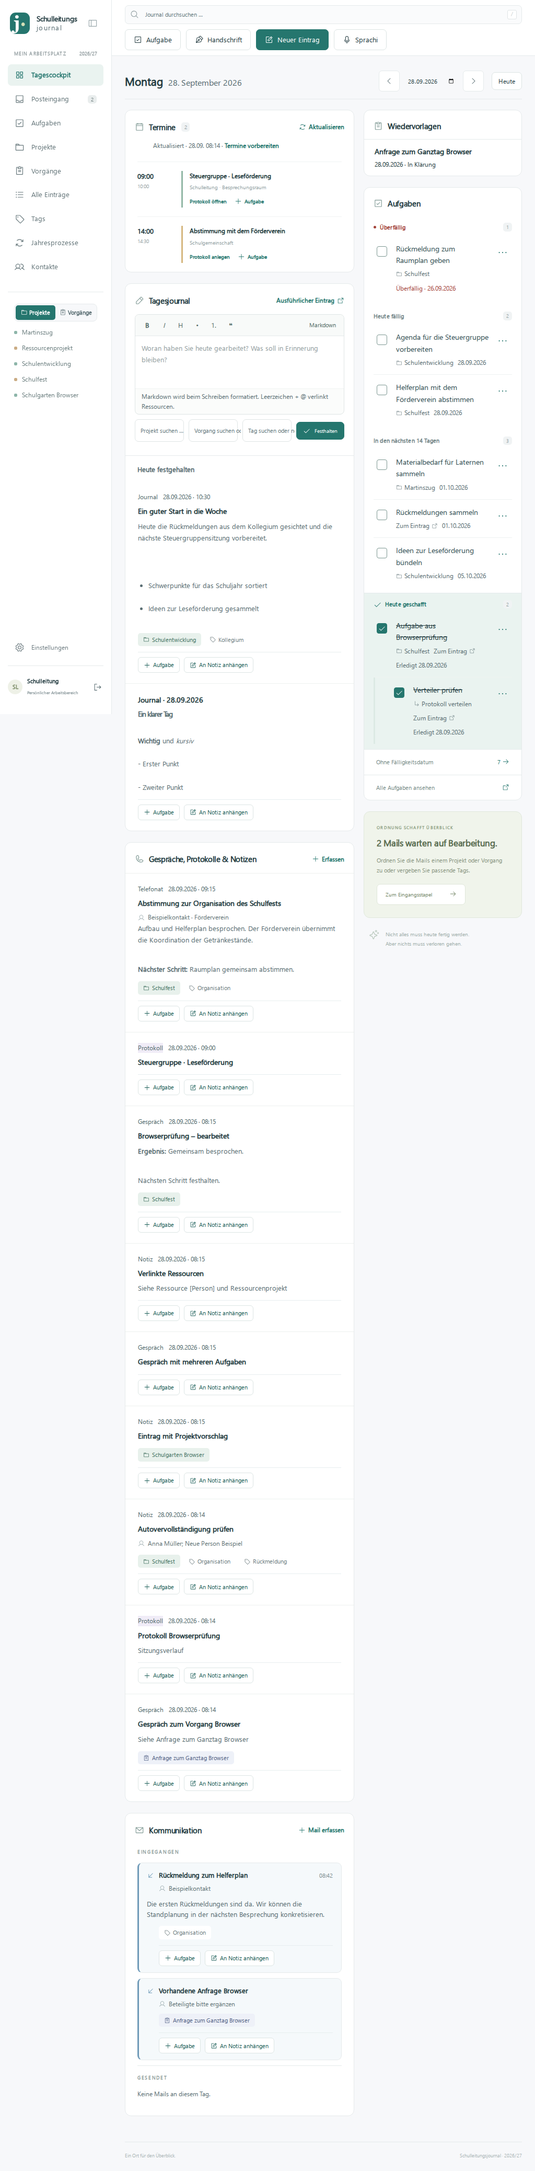
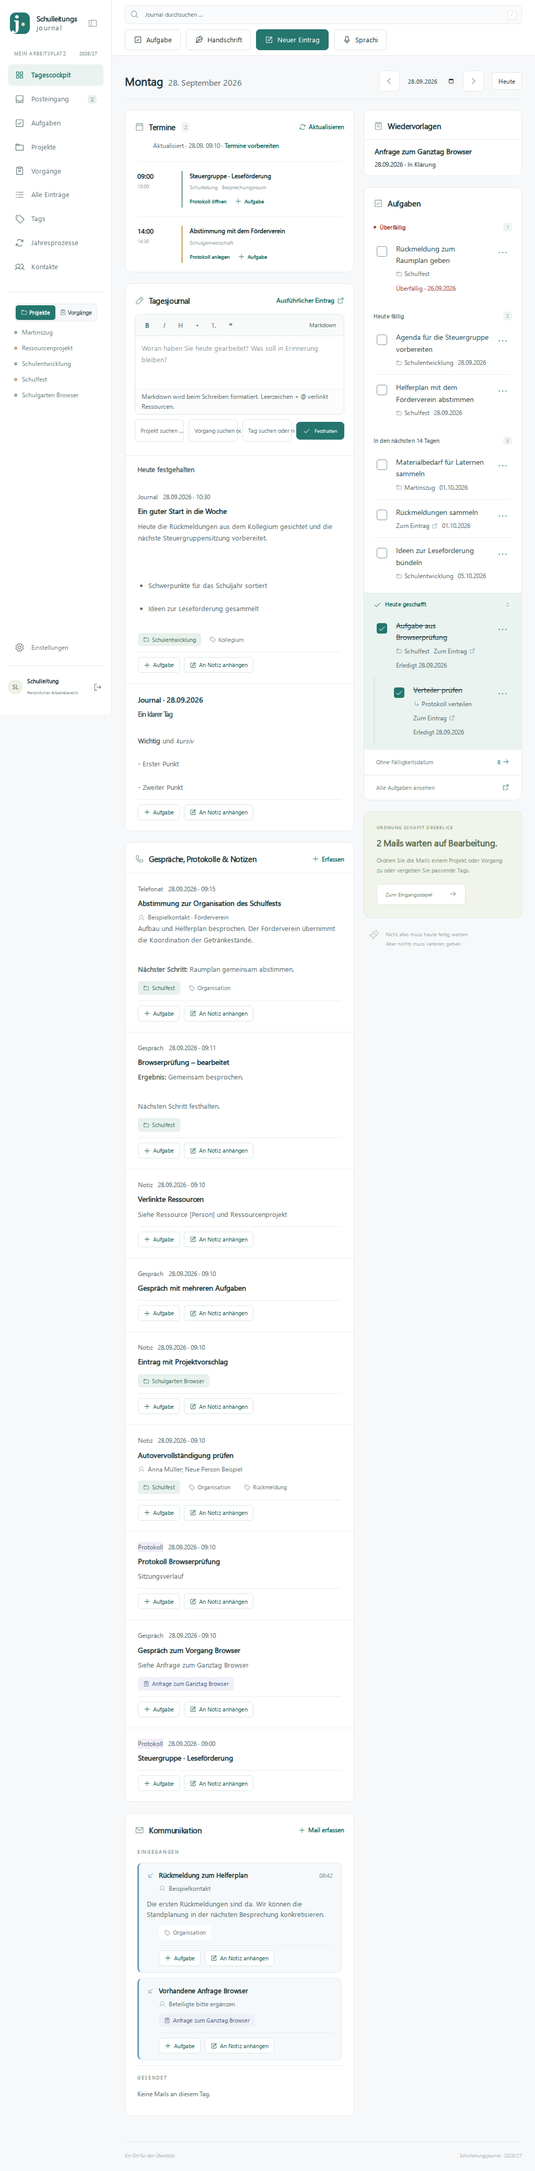
#Tags im Fließtext und „Gleiche Tags“ am Eintrag
Ein #Schulfest im Text wird beim Speichern als Tag übernommen – in
Einträgen samt Tagesordnung und Beschlüssen und im Aufgabentext. Der
Begriff bleibt stehen und ist dort anklickbar.

Dafür braucht eine Markdown-Überschrift jetzt das Leerzeichen: „#Titel“
wurde bisher zur Überschrift und hätte als Tag nie funktioniert. „# Titel“
bleibt unverändert, und die Werkzeugleiste setzt das Leerzeichen ohnehin.
Code-Abschnitte bleiben unberührt, weil der Verweis erst nach ihnen greift.

Dazu auf der Eintragsseite ein Feld mit anderen Einträgen desselben Tags,
nach Tag gruppiert statt vermischt – ein Eintrag trägt oft mehrere Tags,
und beim Lesen verfolgt man einen davon. Je Tag die fünf jüngsten mit
Datum und Art, darunter der Weg zur vollständigen Liste.

Changed region(s): [[0.25, 0.6212, 0.4688, 0.8076], [0.25, 0.4659, 0.4688, 0.5902]]

diff --git a/journal/templates/entry.html b/journal/templates/entry.html
@@ -1,1 +1,1 @@
-{% extends 'base.html' %}{% from 'macros.html' import task_row,empty,documents_section,attachment_row,entry_chips with context %}{% macro entry_tasks(compact=false) %}<section class="panel {{ 'compact-tasks' if compact }}" id="entry-tasks"><div class="panel-heading"><h2>Aufgaben</h2><button class="text-button" data-new-task data-entry-id="{{ entry.id }}" data-case-id="{{ entry.cases[0].id if entry.cases else '' }}" data-project-id="{{ entry.projects[0].id if entry.projects else '' }}">{{ icon('plus') }} Neu</button></div>{% for t in tasks %}{{ task_row(t) }}{% else %}{% if compact %}<p class="small muted compact-empty">Noch keine Aufgaben</p>{% else %}{{ empty('Noch keine Aufgaben') }}{% endif %}{% endfor %}</section>{% endmacro %}{% from 'case_fields.html' import case_field with context %}{% block breadcrumb %}Eintrag{% endblock %}{% block content %}<a class="back-link" data-context-back href="{{ url_for('cockpit',date=entry.date) }}">{{ icon('back') }} Zum Tag · {{ entry.date|de_date }}</a><div class="page-heading"><div><div class="eyebrow">{{ types[entry.type] }}</div><h1>{{ entry.title }}</h1><p class="subtitle">{{ entry.date|de_date }}{% if entry.time %} · {{ entry.time }} Uhr{% endif %}</p></div><div class="actions"><button class="button" data-attach-note data-resource-url="{{ url_for('entry_view',eid=entry.id) }}" data-source-label="{{ entry.title }}">{{ icon('attachment') }} An Notiz anhängen</button><button class="button" data-plan-meeting data-source-entry-id="{{ entry.id }}" data-source-label="{{ entry.title }}" data-text="{{ entry.title }} besprechen">{{ icon('calendar') }} Für Termin vormerken</button><button class="button" data-edit-entry="{{ entry.id }}">{{ icon('journal') }} Eintrag bearbeiten</button></div></div>{% if meeting %}<p class="notice"><a href="{{ url_for('appointment_view',aid=meeting.id) }}">Zum Termin: {{ meeting.title }} · {{ meeting.date|de_date }}</a> · Besprechungspunkte und Unterlagen finden Sie auch im Aufgabenbereich.</p>{% endif %}{% if entry.needs_review %}<div class="notice warning">Die ursprünglichen Mailangaben konnten nicht vollständig erkannt werden. Bitte Datum, Absender und Empfänger prüfen und im Eintrag ergänzen. Das Original ist als Anhang verfügbar.</div>{% endif %}{% if entry.drawings %}<section class="panel padded handwriting-sheets"><div class="panel-heading"><h2>Handschrift &amp; Skizzen</h2><a class="button small" href="{{ url_for('handwriting.new',entry=entry.id) }}">Zeichenblatt hinzufügen</a></div>{% for drawing in entry.drawings %}<article class="handwriting-sheet" id="drawing-{{ drawing.id }}"><a href="{{ url_for('handwriting.edit',did=drawing.id) }}"><h3>{{ drawing.title }}</h3><img loading="lazy" src="{{ url_for('handwriting.preview',did=drawing.id) }}" alt="Handschriftliche Notiz: {{ drawing.title }}"></a><div class="actions"><a class="button small" href="{{ url_for('handwriting.edit',did=drawing.id) }}">Weiterschreiben</a><a class="button small" href="{{ url_for('handwriting.preview',did=drawing.id,download=1) }}">PNG herunterladen</a><form method="post" action="{{ url_for('handwriting.delete',did=drawing.id) }}" data-confirm="Dieses Zeichenblatt endgültig löschen?"><input type="hidden" name="csrf_token" value="{{ csrf_token }}"><input type="hidden" name="revision" value="{{ drawing.revision }}"><button class="text-button danger">{{ icon('delete') }} Blatt löschen</button></form></div></article>{% else %}<p class="small muted">Hier können Sie mit dem Stift mitschreiben oder eine Skizze festhalten.</p>{% endfor %}</section>{% else %}<div class="entry-extra-actions"><a class="text-button" href="{{ url_for('handwriting.new',entry=entry.id) }}">{{ icon('plus') }} Zeichenblatt hinzufügen</a></div>{% endif %}{% if entry.related_entries %}<section class="related-drawings"><h3>Verknüpfte Einträge</h3>{% for related in entry.related_entries %}<article class="related-drawing"><a href="{{ url_for('entry_view',eid=related.id) }}">{% if related.preview_id %}<img loading="lazy" src="{{ url_for('handwriting.preview',did=related.preview_id) }}" alt="Vorschau zu {{ related.title }}">{% endif %}<strong>{{ related.title }}</strong></a><span class="small muted">{{ related.date|de_date }}{% if related.drawing_count %} · {{ related.drawing_count }} Zeichenblätter{% endif %}</span><a class="text-button" href="{{ url_for('entry_view',eid=related.id,_anchor='entry-resources') }}">Zum verknüpften Eintrag</a></article>{% endfor %}</section>{% endif %}{% if entry.drawings or entry.resource_links %}<section class="panel padded entry-resources" id="entry-resources"><h2>Verknüpfte Ressourcen</h2><p class="small muted">Diese Verknüpfungen gelten für den gesamten Eintrag mit allen Zeichenblättern.</p><ul class="drawing-resource-list">{% for link in entry.resource_links %}<li><a href="{{ link.url }}"><strong>{{ link.label }}</strong> <span class="muted small">{{ link.kind }}</span></a><form method="post" action="{{ url_for('entry_unlink',eid=entry.id,lid=link.id) }}" data-async><input type="hidden" name="csrf_token" value="{{ csrf_token }}"><button type="submit" class="text-button" aria-label="Verknüpfung zu {{ link.label }} entfernen">{{ icon('close') }} Entfernen</button></form></li>{% else %}<li class="muted small">Noch keine Ressourcen verknüpft.</li>{% endfor %}</ul><form method="post" action="{{ url_for('entry_link',eid=entry.id) }}" data-async data-resource-picker><input type="hidden" name="csrf_token" value="{{ csrf_token }}"><input type="hidden" name="resource_url"><div class="form-error" role="alert" hidden></div><label for="drawing-resource-{{ entry.id }}">Ressource verknüpfen</label><div class="resource-picker"><input id="drawing-resource-{{ entry.id }}" type="search" autocomplete="off" role="combobox" aria-autocomplete="list" aria-expanded="false" aria-controls="drawing-options-{{ entry.id }}" placeholder="Gespräch, Protokoll, Kontakt oder andere Ressource suchen …" data-resource-query><div class="ac-list" id="drawing-options-{{ entry.id }}" role="listbox" hidden></div></div><p class="small muted" role="status" data-resource-status>Vorhandene Ressource suchen und auswählen.</p><button class="button small" type="submit">{{ icon('link') }} Verknüpfen</button></form></section>{% endif %}{% if entry.drawings %}<div class="handwriting-meta"><section class="panel padded" id="entry-classification"><h2>Zuordnungen</h2><form method="post" action="{{ url_for('entry_classification',eid=entry.id) }}" data-async><input type="hidden" name="csrf_token" value="{{ csrf_token }}"><div class="form-error" role="alert" hidden></div><div class="form-row"><label>Projekte<select name="projects" data-autocomplete="projects" data-label="Projekte" data-include-closed="true" data-project-items='{{ entry.project_items|tojson }}' multiple>{% for p in all_projects %}<option value="{{ p.id }}" data-label="{{ p.name }}" data-detail="{{ p.school_year }}" {{ 'selected' if p.id in entry.projects|map(attribute='id')|list }}>{{ p.name }} · {{ p.school_year }}</option>{% endfor %}</select></label>{{ case_field(selected=entry.cases|map(attribute='id')|list,items=entry.case_items) }}<label>Tags<input name="tags" data-autocomplete="tags" data-label="Tags" value="{{ entry.tags }}" placeholder="Tag suchen oder neu eingeben"></label></div><button class="button primary small" type="submit">{{ icon('check') }} Zuordnung speichern</button></form></section>{{ entry_tasks(true) }}</div>{% endif %}{% set has_text = entry.body|trim or (entry.type=='protocol' and (entry.agenda|trim or entry.decisions|trim)) %}{% set show_details = not entry.drawings or has_text or entry.sender or entry.recipients or entry.participant_items %}<div class="detail-grid" data-single="{{ 'false' if show_details else 'true' }}">{% if show_details %}<section class="panel padded"><dl class="metadata">{% if entry.sender %}<dt>Von</dt><dd>{{ entry.sender }}</dd>{% endif %}{% if entry.recipients %}<dt>An</dt><dd>{{ entry.recipients }}</dd>{% endif %}{% if entry.participant_items %}<dt>Beteiligte</dt><dd class="chips">{% for person in entry.participant_items %}{% if person.kind=='person' %}<a class="pill" href="{{ url_for('person_view',pid=person.id) }}">{{ person.label }}</a>{% else %}<span class="pill">{{ person.label }}</span>{% endif %}{% endfor %}</dd>{% endif %}</dl>{{ entry_chips(entry, files=false) }}{% if entry.type=='protocol' %}{% if entry.agenda %}<section class="protocol-section"><h2>Tagesordnung</h2><div class="markdown" id="entry-agenda">{{ entry.agenda|md }}</div></section>{% endif %}<h2>Protokolltext</h2>{% endif %}<div class="markdown" id="entry-body">{{ entry.body|md }}</div>{% if entry.type=='protocol' and entry.decisions %}<section class="protocol-section"><h2>Beschlüsse</h2><div class="markdown" id="entry-decisions">{{ entry.decisions|md }}</div></section>{% endif %}{% if not entry.drawings or has_text %}<button class="button" data-new-task data-entry-id="{{ entry.id }}" data-case-id="{{ entry.cases[0].id if entry.cases else '' }}" data-project-id="{{ entry.projects[0].id if entry.projects else '' }}" data-selection>{{ icon('plus') }} Aufgabe aus Textauswahl</button>{% endif %}</section>{% endif %}<div>{% if not entry.drawings %}{{ entry_tasks() }}{% endif %}{% if entry.attachments %}<section class="panel"><div class="panel-heading"><h2>Anhänge <span class="number">{{ entry.attachments|length }}</span></h2></div>{% for a in entry.attachments %}{{ attachment_row(a) }}{% else %}{{ empty('Keine Anhänge') }}{% endfor %}</section>{% endif %}{{ documents_section('entry',entry.id) }}<form method="post" action="{{ url_for('entry_delete',eid=entry.id) }}" data-confirm="Diesen Eintrag samt Anhängen endgültig löschen? Zugehörige Aufgaben bleiben erhalten."><input type="hidden" name="csrf_token" value="{{ csrf_token }}"><button class="text-button danger">{{ icon('delete') }} Eintrag löschen</button></form></div></div>{% endblock %}
+{% extends 'base.html' %}{% from 'macros.html' import task_row,empty,documents_section,attachment_row,entry_chips with context %}{% macro entry_tasks(compact=false) %}<section class="panel {{ 'compact-tasks' if compact }}" id="entry-tasks"><div class="panel-heading"><h2>Aufgaben</h2><button class="text-button" data-new-task data-entry-id="{{ entry.id }}" data-case-id="{{ entry.cases[0].id if entry.cases else '' }}" data-project-id="{{ entry.projects[0].id if entry.projects else '' }}">{{ icon('plus') }} Neu</button></div>{% for t in tasks %}{{ task_row(t) }}{% else %}{% if compact %}<p class="small muted compact-empty">Noch keine Aufgaben</p>{% else %}{{ empty('Noch keine Aufgaben') }}{% endif %}{% endfor %}</section>{% endmacro %}{% from 'case_fields.html' import case_field with context %}{% block breadcrumb %}Eintrag{% endblock %}{% block content %}<a class="back-link" data-context-back href="{{ url_for('cockpit',date=entry.date) }}">{{ icon('back') }} Zum Tag · {{ entry.date|de_date }}</a><div class="page-heading"><div><div class="eyebrow">{{ types[entry.type] }}</div><h1>{{ entry.title }}</h1><p class="subtitle">{{ entry.date|de_date }}{% if entry.time %} · {{ entry.time }} Uhr{% endif %}</p></div><div class="actions"><button class="button" data-attach-note data-resource-url="{{ url_for('entry_view',eid=entry.id) }}" data-source-label="{{ entry.title }}">{{ icon('attachment') }} An Notiz anhängen</button><button class="button" data-plan-meeting data-source-entry-id="{{ entry.id }}" data-source-label="{{ entry.title }}" data-text="{{ entry.title }} besprechen">{{ icon('calendar') }} Für Termin vormerken</button><button class="button" data-edit-entry="{{ entry.id }}">{{ icon('journal') }} Eintrag bearbeiten</button></div></div>{% if meeting %}<p class="notice"><a href="{{ url_for('appointment_view',aid=meeting.id) }}">Zum Termin: {{ meeting.title }} · {{ meeting.date|de_date }}</a> · Besprechungspunkte und Unterlagen finden Sie auch im Aufgabenbereich.</p>{% endif %}{% if entry.needs_review %}<div class="notice warning">Die ursprünglichen Mailangaben konnten nicht vollständig erkannt werden. Bitte Datum, Absender und Empfänger prüfen und im Eintrag ergänzen. Das Original ist als Anhang verfügbar.</div>{% endif %}{% if entry.drawings %}<section class="panel padded handwriting-sheets"><div class="panel-heading"><h2>Handschrift &amp; Skizzen</h2><a class="button small" href="{{ url_for('handwriting.new',entry=entry.id) }}">Zeichenblatt hinzufügen</a></div>{% for drawing in entry.drawings %}<article class="handwriting-sheet" id="drawing-{{ drawing.id }}"><a href="{{ url_for('handwriting.edit',did=drawing.id) }}"><h3>{{ drawing.title }}</h3><img loading="lazy" src="{{ url_for('handwriting.preview',did=drawing.id) }}" alt="Handschriftliche Notiz: {{ drawing.title }}"></a><div class="actions"><a class="button small" href="{{ url_for('handwriting.edit',did=drawing.id) }}">Weiterschreiben</a><a class="button small" href="{{ url_for('handwriting.preview',did=drawing.id,download=1) }}">PNG herunterladen</a><form method="post" action="{{ url_for('handwriting.delete',did=drawing.id) }}" data-confirm="Dieses Zeichenblatt endgültig löschen?"><input type="hidden" name="csrf_token" value="{{ csrf_token }}"><input type="hidden" name="revision" value="{{ drawing.revision }}"><button class="text-button danger">{{ icon('delete') }} Blatt löschen</button></form></div></article>{% else %}<p class="small muted">Hier können Sie mit dem Stift mitschreiben oder eine Skizze festhalten.</p>{% endfor %}</section>{% else %}<div class="entry-extra-actions"><a class="text-button" href="{{ url_for('handwriting.new',entry=entry.id) }}">{{ icon('plus') }} Zeichenblatt hinzufügen</a></div>{% endif %}{% if entry.related_entries %}<section class="related-drawings"><h3>Verknüpfte Einträge</h3>{% for related in entry.related_entries %}<article class="related-drawing"><a href="{{ url_for('entry_view',eid=related.id) }}">{% if related.preview_id %}<img loading="lazy" src="{{ url_for('handwriting.preview',did=related.preview_id) }}" alt="Vorschau zu {{ related.title }}">{% endif %}<strong>{{ related.title }}</strong></a><span class="small muted">{{ related.date|de_date }}{% if related.drawing_count %} · {{ related.drawing_count }} Zeichenblätter{% endif %}</span><a class="text-button" href="{{ url_for('entry_view',eid=related.id,_anchor='entry-resources') }}">Zum verknüpften Eintrag</a></article>{% endfor %}</section>{% endif %}{% if entry.drawings or entry.resource_links %}<section class="panel padded entry-resources" id="entry-resources"><h2>Verknüpfte Ressourcen</h2><p class="small muted">Diese Verknüpfungen gelten für den gesamten Eintrag mit allen Zeichenblättern.</p><ul class="drawing-resource-list">{% for link in entry.resource_links %}<li><a href="{{ link.url }}"><strong>{{ link.label }}</strong> <span class="muted small">{{ link.kind }}</span></a><form method="post" action="{{ url_for('entry_unlink',eid=entry.id,lid=link.id) }}" data-async><input type="hidden" name="csrf_token" value="{{ csrf_token }}"><button type="submit" class="text-button" aria-label="Verknüpfung zu {{ link.label }} entfernen">{{ icon('close') }} Entfernen</button></form></li>{% else %}<li class="muted small">Noch keine Ressourcen verknüpft.</li>{% endfor %}</ul><form method="post" action="{{ url_for('entry_link',eid=entry.id) }}" data-async data-resource-picker><input type="hidden" name="csrf_token" value="{{ csrf_token }}"><input type="hidden" name="resource_url"><div class="form-error" role="alert" hidden></div><label for="drawing-resource-{{ entry.id }}">Ressource verknüpfen</label><div class="resource-picker"><input id="drawing-resource-{{ entry.id }}" type="search" autocomplete="off" role="combobox" aria-autocomplete="list" aria-expanded="false" aria-controls="drawing-options-{{ entry.id }}" placeholder="Gespräch, Protokoll, Kontakt oder andere Ressource suchen …" data-resource-query><div class="ac-list" id="drawing-options-{{ entry.id }}" role="listbox" hidden></div></div><p class="small muted" role="status" data-resource-status>Vorhandene Ressource suchen und auswählen.</p><button class="button small" type="submit">{{ icon('link') }} Verknüpfen</button></form></section>{% endif %}{% if entry.drawings %}<div class="handwriting-meta"><section class="panel padded" id="entry-classification"><h2>Zuordnungen</h2><form method="post" action="{{ url_for('entry_classification',eid=entry.id) }}" data-async><input type="hidden" name="csrf_token" value="{{ csrf_token }}"><div class="form-error" role="alert" hidden></div><div class="form-row"><label>Projekte<select name="projects" data-autocomplete="projects" data-label="Projekte" data-include-closed="true" data-project-items='{{ entry.project_items|tojson }}' multiple>{% for p in all_projects %}<option value="{{ p.id }}" data-label="{{ p.name }}" data-detail="{{ p.school_year }}" {{ 'selected' if p.id in entry.projects|map(attribute='id')|list }}>{{ p.name }} · {{ p.school_year }}</option>{% endfor %}</select></label>{{ case_field(selected=entry.cases|map(attribute='id')|list,items=entry.case_items) }}<label>Tags<input name="tags" data-autocomplete="tags" data-label="Tags" value="{{ entry.tags }}" placeholder="Tag suchen oder neu eingeben"></label></div><button class="button primary small" type="submit">{{ icon('check') }} Zuordnung speichern</button></form></section>{{ entry_tasks(true) }}</div>{% endif %}{% set has_text = entry.body|trim or (entry.type=='protocol' and (entry.agenda|trim or entry.decisions|trim)) %}{% set show_details = not entry.drawings or has_text or entry.sender or entry.recipients or entry.participant_items %}<div class="detail-grid" data-single="{{ 'false' if show_details else 'true' }}">{% if show_details %}<section class="panel padded"><dl class="metadata">{% if entry.sender %}<dt>Von</dt><dd>{{ entry.sender }}</dd>{% endif %}{% if entry.recipients %}<dt>An</dt><dd>{{ entry.recipients }}</dd>{% endif %}{% if entry.participant_items %}<dt>Beteiligte</dt><dd class="chips">{% for person in entry.participant_items %}{% if person.kind=='person' %}<a class="pill" href="{{ url_for('person_view',pid=person.id) }}">{{ person.label }}</a>{% else %}<span class="pill">{{ person.label }}</span>{% endif %}{% endfor %}</dd>{% endif %}</dl>{{ entry_chips(entry, files=false) }}{% if entry.type=='protocol' %}{% if entry.agenda %}<section class="protocol-section"><h2>Tagesordnung</h2><div class="markdown" id="entry-agenda">{{ entry.agenda|md }}</div></section>{% endif %}<h2>Protokolltext</h2>{% endif %}<div class="markdown" id="entry-body">{{ entry.body|md }}</div>{% if entry.type=='protocol' and entry.decisions %}<section class="protocol-section"><h2>Beschlüsse</h2><div class="markdown" id="entry-decisions">{{ entry.decisions|md }}</div></section>{% endif %}{% if not entry.drawings or has_text %}<button class="button" data-new-task data-entry-id="{{ entry.id }}" data-case-id="{{ entry.cases[0].id if entry.cases else '' }}" data-project-id="{{ entry.projects[0].id if entry.projects else '' }}" data-selection>{{ icon('plus') }} Aufgabe aus Textauswahl</button>{% endif %}</section>{% endif %}<div>{% if not entry.drawings %}{{ entry_tasks() }}{% endif %}{% if entry.attachments %}<section class="panel"><div class="panel-heading"><h2>Anhänge <span class="number">{{ entry.attachments|length }}</span></h2></div>{% for a in entry.attachments %}{{ attachment_row(a) }}{% else %}{{ empty('Keine Anhänge') }}{% endfor %}</section>{% endif %}{{ documents_section('entry',entry.id) }}{% if tag_groups %}<section class="panel tag-relations"><div class="panel-heading"><h2>{{ icon('tags','section-icon') }} Gleiche Tags</h2></div>{% for gruppe in tag_groups %}<div class="tag-relation"><div class="tag-relation-head"><a class="pill pill-tag" href="{{ url_for('entry_list',tag=gruppe.name) }}">{{ icon('tags') }}{{ gruppe.name }}</a><span class="muted small">{{ gruppe.gesamt }} {{ 'Eintrag' if gruppe.gesamt==1 else 'Einträge' }}</span></div>{% for e in gruppe.eintraege %}<a class="tag-relation-item" href="{{ url_for('entry_view',eid=e.id) }}"><span class="tag-relation-date">{{ e.date|de_date }}</span><span class="tag-relation-title">{{ e.title }}</span><span class="type-label type-{{ e.type }}">{{ types[e.type] }}</span></a>{% endfor %}{% if gruppe.gesamt > gruppe.eintraege|length %}<a class="text-button tag-relation-more" href="{{ url_for('entry_list',tag=gruppe.name) }}">Alle {{ gruppe.gesamt }} ansehen {{ icon('forward') }}</a>{% endif %}</div>{% endfor %}</section>{% endif %}<form method="post" action="{{ url_for('entry_delete',eid=entry.id) }}" data-confirm="Diesen Eintrag samt Anhängen endgültig löschen? Zugehörige Aufgaben bleiben erhalten."><input type="hidden" name="csrf_token" value="{{ csrf_token }}"><button class="text-button danger">{{ icon('delete') }} Eintrag löschen</button></form></div></div>{% endblock %}

diff --git a/journal/static/style.css b/journal/static/style.css
@@ -537,3 +537,18 @@ body.sidebar-collapsed .profile form{margin:0}
 .device-row{display:flex;align-items:center;justify-content:space-between;gap:15px;padding:12px 0;border-top:1px solid var(--line)}
 .device-row>div{display:flex;flex-direction:column;min-width:0;overflow-wrap:anywhere}
 #devices{margin-bottom:22px}
+
+/* „Gleiche Tags“ am Eintrag: je Tag eine kurze Liste statt einer Mischung */
+.tag-relation{padding:0 23px 14px;border-top:1px solid #f0f3f3}
+.tag-relation:first-of-type{border-top:0}
+.tag-relation-head{display:flex;align-items:center;justify-content:space-between;gap:10px;padding:13px 0 7px}
+.tag-relation-head .muted{white-space:nowrap;font-size:10px}
+.tag-relation-item{display:flex;align-items:baseline;gap:9px;padding:6px 0;font-size:12px;min-width:0}
+.tag-relation-item:hover .tag-relation-title{color:var(--teal)}
+.tag-relation-date{flex:none;width:62px;font-size:10px;color:#9dabad}
+.tag-relation-title{flex:1;min-width:0;overflow:hidden;text-overflow:ellipsis;white-space:nowrap}
+.tag-relation-item .type-label{flex:none;font-size:9px}
+.tag-relation-more{margin-top:6px}
+.inline-tag{color:var(--teal);font-weight:550}
+.inline-tag:hover{text-decoration:underline}
+@media(max-width:700px){.tag-relation{padding:0 18px 12px}.tag-relation-item .type-label{display:none}}

diff --git a/tests/test_inline_tags.py b/tests/test_inline_tags.py
@@ -1,0 +1,91 @@
+"""#Tags im Fließtext und das Feld „Gleiche Tags“ am Eintrag."""
+from journal.db import get_db, one
+from journal.domain import save_entry, save_task
+from journal.tags import inline_tags, merge_tags, verwandte
+
+
+def test_erkennung_im_text():
+    assert inline_tags('#Schulfest steht an') == ['Schulfest']
+    assert inline_tags('Wir planen #Schulfest und #Kollegium.') == ['Schulfest', 'Kollegium']
+    assert inline_tags('## Beschlüsse', '# Titel') == []
+    assert inline_tags('foo#bar', 'https://x.de/s#anker', '#1 Platz') == []
+    assert inline_tags('#Über-Uns und #a_b') == ['Über-Uns', 'a_b']
+
+
+def test_feld_und_text_werden_zusammengefuehrt():
+    assert merge_tags('Organisation', 'Dazu #Schulfest planen') == 'Organisation, Schulfest'
+    # Das Feld gewinnt die Schreibweise, das Doppel entfällt.
+    assert merge_tags('Schulfest', 'Zum #schulfest') == 'Schulfest'
+    assert merge_tags('', 'Nur #Kollegium') == 'Kollegium'
+
+
+def test_eintrag_uebernimmt_tags_aus_dem_text(app):
+    with app.app_context():
+        eid = save_entry(dict(title='Notiz', date='2026-09-28', tags='Organisation',
+                              body='Beim #Schulfest wird es eng.'))
+        assert one('SELECT tags FROM entries WHERE id=?', (eid,))['tags'] == 'Organisation, Schulfest'
+
+
+def test_protokollfelder_zaehlen_mit(app):
+    with app.app_context():
+        eid = save_entry(dict(title='Konferenz', date='2026-09-28', type='protocol',
+                              agenda='TOP 1 #Schulfest', decisions='Beschlossen: #Kollegium informieren'))
+        assert one('SELECT tags FROM entries WHERE id=?', (eid,))['tags'] == 'Schulfest, Kollegium'
+
+
+def test_aufgabe_uebernimmt_tags_aus_dem_text(app):
+    with app.app_context():
+        tid = save_task(dict(text='Raumplan für #Schulfest abstimmen'))
+        assert one('SELECT tags FROM tasks WHERE id=?', (tid,))['tags'] == 'Schulfest'
+
+
+def test_darstellung(app):
+    with app.test_request_context('/'):
+        md = app.jinja_env.filters['md']
+        assert '<a class="inline-tag" href="/entries?tag=Schulfest">#Schulfest</a>' in str(md('#Schulfest steht an'))
+        assert str(md('# Echte Überschrift')) == '<h1>Echte Überschrift</h1>'
+        assert str(md('## Beschlüsse')) == '<h2>Beschlüsse</h2>'
+        assert '<code>#Schulfest</code>' in str(md('Code: `#Schulfest`'))
+
+
+def anlegen(titel, datum, tags, typ='note'):
+    return get_db().execute('INSERT INTO entries(date,type,title,tags,body) VALUES(?,?,?,?,?)',
+                            (datum, typ, titel, tags, '')).lastrowid
+
+
+def test_gleiche_tags_gruppiert_je_tag(app):
+    with app.app_context():
+        eid = anlegen('Abstimmung', '2026-09-25', 'Schulfest, Organisation')
+        for n in range(6):
+            anlegen(f'Fest {n}', f'2026-09-{10+n:02d}', 'Schulfest')
+        anlegen('Dienstbesprechung', '2026-09-22', 'Organisation')
+        anlegen('Ohne Bezug', '2026-09-24', 'Kollegium')
+        get_db().commit()
+        gruppen = verwandte(one('SELECT * FROM entries WHERE id=?', (eid,)))
+        assert [g['name'] for g in gruppen] == ['Schulfest', 'Organisation']
+        fest = gruppen[0]
+        assert fest['gesamt'] == 6 and len(fest['eintraege']) == 5, 'höchstens fünf je Tag'
+        assert [e['title'] for e in fest['eintraege']] == [f'Fest {n}' for n in (5, 4, 3, 2, 1)], 'neueste zuerst'
+        assert all(e['id'] != eid for g in gruppen for e in g['eintraege']), 'ohne den Eintrag selbst'
+
+
+def test_feld_erscheint_nur_bei_treffern(app, client):
+    with app.app_context():
+        allein = anlegen('Einsam', '2026-09-25', 'Einmalig')
+        ohne = anlegen('Ohne Tags', '2026-09-25', '')
+        get_db().commit()
+    for eid in (allein, ohne):
+        seite = client.get(f'/entry/{eid}', base_url='https://localhost').get_data(as_text=True)
+        assert 'Gleiche Tags' not in seite
+
+
+def test_feld_verlinkt_die_vollstaendige_liste(app, client):
+    with app.app_context():
+        eid = anlegen('Abstimmung', '2026-09-25', 'Schulfest')
+        for n in range(6):
+            anlegen(f'Fest {n}', f'2026-09-{10+n:02d}', 'Schulfest')
+        get_db().commit()
+    seite = client.get(f'/entry/{eid}', base_url='https://localhost').get_data(as_text=True)
+    assert 'Gleiche Tags' in seite
+    assert 'Alle 6 ansehen' in seite
+    assert 'tag=Schulfest' in seite

diff --git a/journal/tags.py b/journal/tags.py
@@ -30,3 +30,100 @@ def overview(query=''):
         item['count']=item['entries']+item['tasks']
     search=tag_key(query).lstrip('#')
     return sorted((item for key,item in found.items() if search in key),key=lambda item:tag_key(item['name']))
+
+
+# --- Tags im Fließtext: #Schulfest ------------------------------------------
+
+import re
+
+# Nach dem Doppelkreuz muss ein Buchstabe stehen – so werden weder „#1“ noch
+# Überschriften („## Beschlüsse“) noch Anker in Adressen zu Tags.
+INLINE = re.compile(r'(?<![\w#])#([^\W\d_][\w-]{0,63})')
+
+
+def inline_tags(*texte):
+    """Alle im Fließtext geschriebenen Tags, in der Reihenfolge ihres Auftretens."""
+    gefunden = []
+    for text in texte:
+        gefunden.extend(INLINE.findall(text or ''))
+    return gefunden
+
+
+def merge_tags(feld, *texte):
+    """Tags aus dem Eingabefeld und aus dem Text zusammenführen.
+
+    Das Feld hat Vorrang: Steht ein Tag dort bereits, bleibt dessen
+    Schreibweise erhalten und die aus dem Text wird verworfen.
+    """
+    from .domain import clean_tags
+    ergebnis = []
+    bekannt = set()
+    for label in clean_tags(feld or '').split(', ') + inline_tags(*texte):
+        label = label.strip()
+        key = tag_key(label)
+        if not key or key in bekannt:
+            continue
+        bekannt.add(key)
+        ergebnis.append(label)
+    return ', '.join(ergebnis)
+
+
+def markdown_extension():
+    """Macht #Tags im Fließtext anklickbar – und verhindert, dass sie am
+    Zeilenanfang als Markdown-Überschrift gelesen werden."""
+    import xml.etree.ElementTree as ET
+    from markdown.extensions import Extension
+    from markdown.inlinepatterns import InlineProcessor
+
+    def ziel(name):
+        try:
+            from flask import url_for
+            return url_for('entry_list', tag=name)
+        except Exception:
+            from urllib.parse import quote
+            return '/entries?tag=' + quote(name)
+
+    class TagVerweis(InlineProcessor):
+        def handleMatch(self, treffer, daten):
+            element = ET.Element('a')
+            element.text = '#' + treffer.group(1)
+            element.set('href', ziel(treffer.group(1)))
+            element.set('class', 'inline-tag')
+            return element, treffer.start(0), treffer.end(0)
+
+    class Tags(Extension):
+        def extendMarkdown(self, md):
+            # Eine Überschrift braucht jetzt das Leerzeichen („# Titel“), wie es
+            # auch die Werkzeugleiste einfügt. Ohne diese Änderung würde
+            # „#Schulfest“ am Zeilenanfang zur Überschrift statt zum Tag.
+            md.parser.blockprocessors['hashheader'].RE = re.compile(
+                r'(?:^|\n)(?P<level>#{1,6})[ \t]+(?P<header>(?:\\.|[^\\])*?)#*(?:\n|$)')
+            # Nach den Code-Abschnitten (190), damit `#Tag` in Code Code bleibt.
+            md.inlinePatterns.register(TagVerweis(INLINE.pattern, md), 'journal-tag', 185)
+
+    return Tags()
+
+
+def verwandte(entry, je_tag=5):
+    """Andere Einträge je Tag dieses Eintrags – neueste zuerst.
+
+    Gruppiert nach Tag statt zu einer flachen Liste vermischt: Ein Eintrag
+    trägt oft mehrere Tags, und beim Lesen verfolgt man einen davon.
+    """
+    from .db import one, rows
+    gruppen = []
+    gesehen = set()
+    for label in (entry['tags'] or '').split(','):
+        label = label.strip()
+        key = tag_key(label)
+        if not key or key in gesehen:
+            continue
+        gesehen.add(key)
+        treffer = rows('SELECT id,title,date,type FROM entries WHERE id<>? AND has_tag(tags,?) '
+                       'ORDER BY date DESC,time DESC,id DESC LIMIT ?', (entry['id'], label, je_tag))
+        if not treffer:
+            continue
+        gesamt = one('SELECT count(*) n FROM entries WHERE id<>? AND has_tag(tags,?)',
+                     (entry['id'], label))['n']
+        gruppen.append(dict(name=label, eintraege=treffer, gesamt=gesamt))
+    return gruppen

diff --git a/journal/domain.py b/journal/domain.py
@@ -61,6 +61,7 @@ def entries(sql='SELECT * FROM entries ORDER BY date DESC,time DESC,id DESC', pa
 
 
 def save_entry(data, project_ids=(), person_ids=(), entry_id=None):
+    from .tags import merge_tags
     title = data.get('title', '').strip()
     if not title:
         raise ValueError('Ein Titel fehlt noch.')
@@ -74,7 +75,7 @@ def save_entry(data, project_ids=(), person_ids=(), entry_id=None):
             datetime.strptime(time, '%H:%M')
         except ValueError:
             raise ValueError('Bitte eine gültige Uhrzeit eingeben.')
-    values = (entry_date,time,kind,title,data.get('body',''),data.get('participants',''),data.get('sender',''),data.get('recipients',''),clean_tags(data.get('tags','')),int(bool(data.get('needs_review',False))))
+    values = (entry_date,time,kind,title,data.get('body',''),data.get('participants',''),data.get('sender',''),data.get('recipients',''),merge_tags(data.get('tags',''),data.get('body',''),data.get('agenda',''),data.get('decisions','')),int(bool(data.get('needs_review',False))))
     db = get_db()
     if entry_id:
         db.execute('UPDATE entries SET date=?,time=?,type=?,title=?,body=?,participants=?,sender=?,recipients=?,tags=?,needs_review=? WHERE id=?', (*values,entry_id))
@@ -94,6 +95,7 @@ def save_entry(data, project_ids=(), person_ids=(), entry_id=None):
 
 
 def save_task(data, task_id=None):
+    from .tags import merge_tags
     text = data.get('text','').strip()
     if not text:
         raise ValueError('Der Aufgabentext fehlt noch.')
@@ -108,7 +110,7 @@ def save_task(data, task_id=None):
         if task_id and one('SELECT id FROM tasks WHERE parent_id=?',(task_id,)):
             raise ValueError('Eine Hauptaufgabe mit Unteraufgaben kann nicht selbst Unteraufgabe werden.')
     # Unteraufgaben erben Tags wie Projekt und Vorgang, solange keine eigenen gesetzt sind.
-    tags = clean_tags(data.get('tags','')) or (parent['tags'] if parent else '')
+    tags = merge_tags(data.get('tags',''),text) or (parent['tags'] if parent else '')
     pid = data.get('project_id') or (parent['project_id'] if parent else None)
     eid = data.get('entry_id') or (parent['entry_id'] if parent else None)
     if eid:

diff --git a/journal/app.py b/journal/app.py
@@ -73,8 +73,9 @@ def create_app(test_config=None):
 
     @app.template_filter('md')
     def render_markdown(text):
-        html = markdown.markdown(text or '', extensions=['fenced_code','tables','nl2br'])
-        return Markup(bleach.clean(html, tags={'p','br','strong','em','ul','ol','li','blockquote','code','pre','h1','h2','h3','h4','hr','a','table','thead','tbody','tr','th','td','del'}, attributes={'a':['href','title']}, protocols=['https','http','mailto'], strip=True))
+        from .tags import markdown_extension
+        html = markdown.markdown(text or '', extensions=['fenced_code','tables','nl2br',markdown_extension()])
+        return Markup(bleach.clean(html, tags={'p','br','strong','em','ul','ol','li','blockquote','code','pre','h1','h2','h3','h4','hr','a','table','thead','tbody','tr','th','td','del'}, attributes={'a':['href','title','class']}, protocols=['https','http','mailto'], strip=True))
 
     @app.template_filter('mail_names')
     def mail_names(value, limit=2):
@@ -314,7 +315,8 @@ def create_app(test_config=None):
         from .entry_links import listed, incoming
         entry['resource_links'] = listed(eid)
         entry['related_entries'] = incoming(eid)
-        return render_template('entry.html',entry=entry,meeting=one('SELECT * FROM calendar_events WHERE protocol_entry_id=?',(eid,)),tasks=rows('SELECT t.*,p.name project_name FROM tasks t LEFT JOIN projects p ON p.id=t.project_id WHERE entry_id=? OR t.id IN (SELECT mp.task_id FROM meeting_points mp JOIN calendar_events ce ON ce.id=mp.event_id WHERE ce.protocol_entry_id=?) ORDER BY done,due',(eid,eid)))
+        from .tags import verwandte
+        return render_template('entry.html',entry=entry,tag_groups=verwandte(entry),meeting=one('SELECT * FROM calendar_events WHERE protocol_entry_id=?',(eid,)),tasks=rows('SELECT t.*,p.name project_name FROM tasks t LEFT JOIN projects p ON p.id=t.project_id WHERE entry_id=? OR t.id IN (SELECT mp.task_id FROM meeting_points mp JOIN calendar_events ce ON ce.id=mp.event_id WHERE ce.protocol_entry_id=?) ORDER BY done,due',(eid,eid)))
 
     @app.get('/api/entry/<int:eid>')
     def entry_json(eid):

diff --git a/scripts/task_group_checks.py b/scripts/task_group_checks.py
@@ -77,6 +77,13 @@ def check_task_groups(page,app,output):
     expect(page.locator('.task-row')).to_have_count(1)
     assert 'tag=Schulfest' in page.url, page.url
     page.goto(origin+'/tasks?filter=all')
+    # #Tag im Aufgabentext wird beim Speichern übernommen.
+    page.get_by_role('button',name='Aufgabe',exact=True).first.click()
+    task.locator('[name=text]').fill('Bühne für #Sommerfest bestellen')
+    task.get_by_role('button',name='Aufgabe speichern',exact=True).click()
+    expect(task).not_to_be_visible()
+    zeile=page.locator('.task-row',has_text='Bühne für #Sommerfest bestellen')
+    expect(zeile.locator('.task-meta')).to_contain_text('Sommerfest')
     page.set_viewport_size({'width':390,'height':844})
     assert page.evaluate('document.documentElement.scrollWidth<=window.innerWidth')
     page.screenshot(path=str(output/'subtasks-mobile.png'),full_page=True)

diff --git a/README.md b/README.md
@@ -141,6 +141,12 @@ Tags gibt es an Einträgen **und** an Aufgaben. Zwei Stellen sind auf schnelles 
 
 Unteraufgaben übernehmen die Tags der Hauptaufgabe, solange keine eigenen gesetzt sind — wie bei Projekt und Vorgang.
 
+**Tags im Fließtext.** Ein `#Schulfest` mitten im Text wird beim Speichern als Tag übernommen — im Tagesjournal, im Eintragsdialog samt Tagesordnung und Beschlüssen, und im Aufgabentext. Der Begriff bleibt im Text stehen und ist dort anklickbar. Feldeingabe und Text ergänzen sich; steht ein Tag schon im Feld, gewinnt dessen Schreibweise.
+
+Erkannt wird `#` gefolgt von einem Buchstaben. Nicht erkannt werden `#1`, Anker in Adressen (`…/seite#stelle`), `#tag` innerhalb eines Wortes und alles in Code-Abschnitten. **Eine Markdown-Überschrift braucht dafür jetzt das Leerzeichen** — `# Titel` bleibt eine Überschrift, `#Titel` ist ein Tag. Die Werkzeugleiste des Editors setzt das Leerzeichen ohnehin.
+
+**Gleiche Tags am Eintrag.** Unter den Dokumenten steht auf jeder Eintragsseite ein Feld mit anderen Einträgen, die dieselben Tags tragen — nach Tag gruppiert, nicht zu einer Liste vermischt. Ein Eintrag trägt oft mehrere Tags, und beim Lesen verfolgt man einen davon. Je Tag die fünf jüngsten Einträge mit Datum und Art, darunter der Weg zur vollständigen Liste. Ohne Treffer erscheint das Feld nicht.
+
 Die Tagübersicht zählt beides getrennt („3 Einträge · 2 Aufgaben") und führt mit je einem Verweis in die passende Liste. Die Aufgabenliste filtert über `?tag=`; Groß- und Kleinschreibung spielt dabei keine Rolle.
 
 ## Symbole
